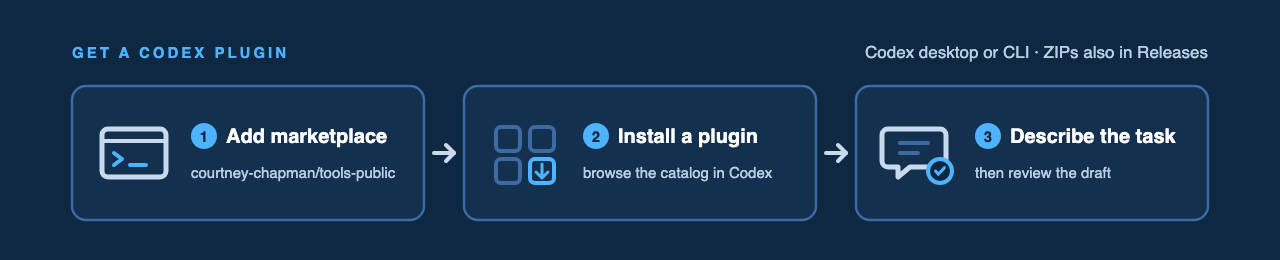
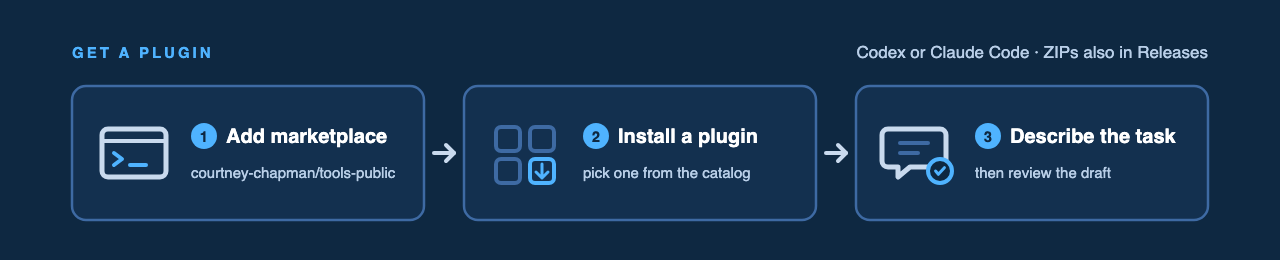
Share plugin setup graphic across Codex and Claude

Changed region(s): [[0.6562, 0.1538, 0.8125, 0.2462], [0.4375, 0.6462, 0.625, 0.7077], [0.0938, 0.1846, 0.25, 0.2462]]

diff --git a/README.md b/README.md
@@ -22,12 +22,11 @@ Try an app online, or download its ZIP from Releases to use it offline. The onli
 
 ## Plugins
 
+<img src="docs/readme/readme_get_plugin.png" alt="Get a plugin: add the courtney-chapman/tools-public marketplace in Codex or Claude Code, install a plugin from the catalog, then describe the task and review the draft. ZIPs are also in Releases." width="100%">
+
 ### Use with Codex
 
-<img src="docs/readme/readme_get_plugin.png" alt="Get a Codex plugin: add the courtney-chapman/tools-public marketplace, install a plugin from the catalog in Codex, then describe the task and review the draft. ZIPs are also in Releases." width="100%">
-
-- **Codex desktop or CLI:** Add this repository as a marketplace with `codex plugin marketplace add courtney-chapman/tools-public`, then browse and install the plugin you want.
-- **ChatGPT web with ZIP upload access:** Download one plugin ZIP from [Releases](https://github.com/courtney-chapman/tools-public/releases), then use the plugin upload option in your account. Upload availability depends on your plan and permissions.
+In Codex desktop or CLI, add this repository as a marketplace with `codex plugin marketplace add courtney-chapman/tools-public`, then browse and install the plugin you want.
 
 ### Use with Claude Code
 
@@ -41,6 +40,8 @@ In Claude Code, add the marketplace and install the plugin you want. For example
 ### Download a plugin ZIP
 
 The latest [plugin release](https://github.com/courtney-chapman/tools-public/releases/tag/v2026.11.15.1) has one ZIP per plugin. Each ZIP contains the Codex and Claude Code manifests, the skill files, and the repository license.
+
+If your ChatGPT web account has plugin ZIP upload access, download the ZIP for the plugin you want and upload it there. Availability depends on your plan and permissions.
 
 ### Procurement
 
